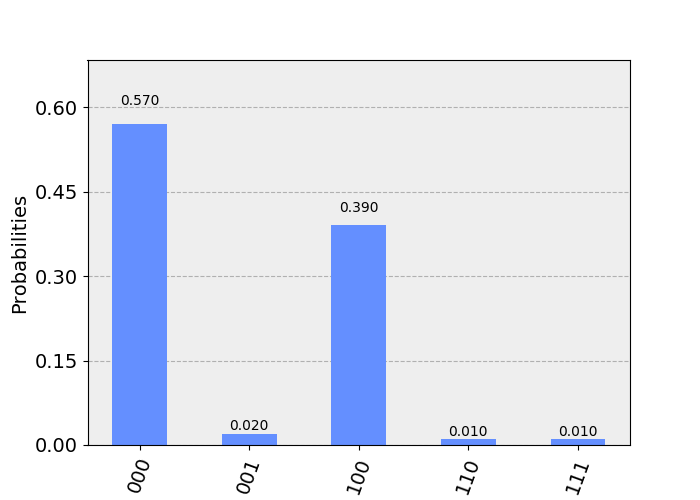
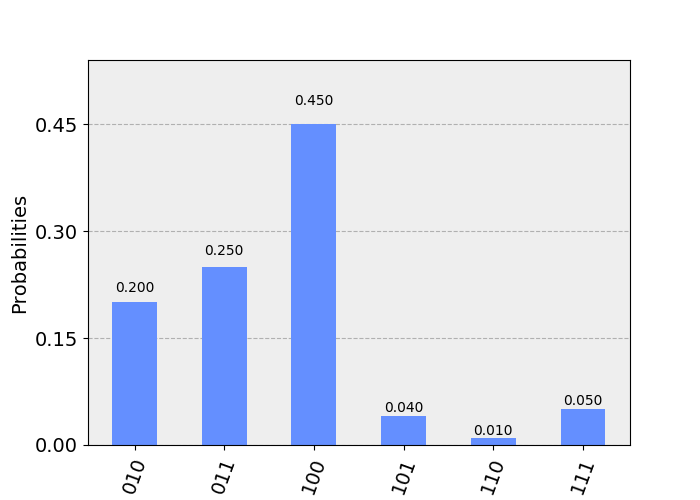
Implementation of handling multi-qubit gates

diff --git a/circuit_grid_model.py b/circuit_grid_model.py
@@ -19,11 +19,14 @@ class CircuitGridModel():
 
         return 'CircuitGridModel: ' + retval
 
-    def set_node(self, wire_num, column_num, node_type, radians=0):
-        if not self.nodes[wire_num][column_num]:
-            self.nodes[wire_num][column_num] = CircuitGridNode(node_type, radians)
-        else:
-            print('Node ', wire_num, column_num, ' not empty')
+    def set_node(self, wire_num, column_num, node_type, radians=0, ctrl_a=-1, ctrl_b=-1, swap=-1):
+        self.nodes[wire_num][column_num] = CircuitGridNode(node_type, radians, ctrl_a, ctrl_b, swap)
+
+        # TODO: Decide whether to protect as shown below
+        # if not self.nodes[wire_num][column_num]:
+        #     self.nodes[wire_num][column_num] = CircuitGridNode(node_type, radians)
+        # else:
+        #     print('Node ', wire_num, column_num, ' not empty')
 
     def get_node(self, wire_num, column_num):
         return self.nodes[wire_num][column_num]
@@ -33,60 +36,98 @@ class CircuitGridModel():
         qc = QuantumCircuit(qr)
 
         for column_num in range(self.max_columns):
-            # First, handle case in which multi-qubit gates are specified
-            if not self.compute_multi_qubit_gate(qc, qr, column_num):
-                for wire_num in range(self.max_wires):
-                    node = self.nodes[wire_num][column_num]
-                    if node:
-                        if node.node_type == node_types.IDEN:
-                            qc.iden(qr[wire_num])
-                        elif node.node_type == node_types.X:
-                            if node.radians == 0:
+            for wire_num in range(self.max_wires):
+                node = self.nodes[wire_num][column_num]
+                if node:
+                    if node.node_type == node_types.IDEN:
+                        # Identity gate
+                        qc.iden(qr[wire_num])
+                    elif node.node_type == node_types.X:
+                        if node.radians == 0:
+                            if node.ctrl_a != -1:
+                                if node.ctrl_b != -1:
+                                    # Toffoli gate
+                                    qc.ccx(qr[node.ctrl_a], qr[node.ctrl_b], qr[wire_num])
+                                else:
+                                    # Controlled X gate
+                                    qc.cx(qr[node.ctrl_a], qr[wire_num])
+                            else:
+                                # Pauli-X gate
                                 qc.x(qr[wire_num])
+                        else:
+                            # Rotation around X axis
+                            qc.rx(node.radians, qr[wire_num])
+                    elif node.node_type == node_types.Y:
+                        if node.radians == 0:
+                            if node.ctrl_a != -1:
+                                # Controlled Y gate
+                                qc.cy(qr[node.ctrl_a], qr[wire_num])
                             else:
-                                qc.rx(node.radians, qr[wire_num])
-                        elif node.node_type == node_types.Y:
-                            if node.radians == 0:
+                                # Pauli-Y gate
                                 qc.y(qr[wire_num])
+                        else:
+                            # Rotation around Y axis
+                            qc.ry(node.radians, qr[wire_num])
+                    elif node.node_type == node_types.Z:
+                        if node.radians == 0:
+                            if node.ctrl_a != -1:
+                                # Controlled Z gate
+                                qc.cz(qr[node.ctrl_a], qr[wire_num])
                             else:
-                                qc.ry(node.radians, qr[wire_num])
-                        elif node.node_type == node_types.Z:
-                            if node.radians == 0:
+                                # Pauli-Z gate
                                 qc.z(qr[wire_num])
+                        else:
+                            if node.ctrl_a != -1:
+                                # Controlled rotation around the Z axis
+                                qc.crz(node.radians, qr[node.ctrl_a], qr[wire_num])
                             else:
+                                # Rotation around Z axis
                                 qc.rz(node.radians, qr[wire_num])
-                        elif node.node_type == node_types.S:
-                            qc.s(qr[wire_num])
-                        elif node.node_type == node_types.SDG:
-                            qc.sdg(qr[wire_num])
-                        elif node.node_type == node_types.T:
-                            qc.t(qr[wire_num])
-                        elif node.node_type == node_types.TDG:
-                            qc.tdg(qr[wire_num])
-                        elif node.node_type == node_types.H:
+                    elif node.node_type == node_types.S:
+                        # S gate
+                        qc.s(qr[wire_num])
+                    elif node.node_type == node_types.SDG:
+                        # S dagger gate
+                        qc.sdg(qr[wire_num])
+                    elif node.node_type == node_types.T:
+                        # T gate
+                        qc.t(qr[wire_num])
+                    elif node.node_type == node_types.TDG:
+                        # T dagger gate
+                        qc.tdg(qr[wire_num])
+                    elif node.node_type == node_types.H:
+                        if node.ctrl_a != -1:
+                            # Controlled Hadamard
+                            qc.ch(qr[node.ctrl_a], qr[wire_num])
+                        else:
+                            # Hadamard gate
                             qc.h(qr[wire_num])
-                        elif node.node_type == node_types.B:
-                            qc.barrier(qr)
+                    elif node.node_type == node_types.SWAP:
+                        if node.ctrl_a != -1:
+                            # Controlled Swap
+                            qc.cswap(qr[node.ctrl_a], qr[wire_num], qr[node.swap])
+                        else:
+                            # Swap gate
+                            qc.swap(qr[wire_num], qr[node.swap])
+                    elif node.node_type == node_types.B:
+                        # Barrier
+                        qc.barrier(qr)
 
         return qc
 
-    def compute_multi_qubit_gate(self, qc, qr, column_num):
-        print('Column ', column_num, ': ', str(self.nodes[:, column_num]))
-        for wire_num in range(self.max_wires):
-            node = self.nodes[wire_num][column_num]
-            if node:
-                if node.node_type == node_types.C:
-                    qc.cx(qr[0], qr[1])
-                    return True
-        return False
 
 class CircuitGridNode():
     """Represents a node in the circuit grid"""
-    def __init__(self, node_type, radians):
+    def __init__(self, node_type, radians=0.0, ctrl_a=-1, ctrl_b=-1, swap=-1):
         self.node_type = node_type
         self.radians = radians
+        self.ctrl_a = ctrl_a
+        self.ctrl_b = ctrl_b
+        self.swap = swap
 
     def __str__(self):
         string = 'type: ' + str(self.node_type)
         string += ', radians: ' + str(self.radians) if self.radians != 0 else ''
+        string += ', ctrl_a: ' + str(self.ctrl_a) if self.ctrl_a != -1 else ''
+        string += ', ctrl_b: ' + str(self.ctrl_b) if self.ctrl_b != -1 else ''
         return string

diff --git a/main.py b/main.py
@@ -279,13 +279,15 @@ def main():
     # Prepare objects
     clock = pygame.time.Clock()
 
-    circuit_grid_model = CircuitGridModel(3, 6)
+    circuit_grid_model = CircuitGridModel(3, 13)
 
     circuit_grid_model.set_node(0, 0, node_types.X, np.pi/8)
     circuit_grid_model.set_node(1, 0, node_types.Y, np.pi/6)
     circuit_grid_model.set_node(2, 0, node_types.Z, np.pi/4)
 
-    circuit_grid_model.set_node(0, 1, node_types.B)
+    circuit_grid_model.set_node(0, 1, node_types.X)
+    circuit_grid_model.set_node(1, 1, node_types.Y)
+    circuit_grid_model.set_node(2, 1, node_types.Z)
 
     circuit_grid_model.set_node(0, 2, node_types.S)
     circuit_grid_model.set_node(1, 2, node_types.T)
@@ -295,11 +297,24 @@ def main():
     circuit_grid_model.set_node(1, 3, node_types.TDG)
     circuit_grid_model.set_node(2, 3, node_types.IDEN)
 
-    circuit_grid_model.set_node(0, 4, node_types.C)
-    circuit_grid_model.set_node(2, 4, node_types.X)
+    circuit_grid_model.set_node(0, 4, node_types.X, 0, 1)
 
-    circuit_grid_model.set_node(0, 5, node_types.Z, np.pi/8)
-    circuit_grid_model.set_node(1, 5, node_types.C)
+    # circuit_grid_model.set_node(0, 5, node_types.Z, np.pi/8)
+    circuit_grid_model.set_node(2, 5, node_types.Z, np.pi/4, 1)
+
+    circuit_grid_model.set_node(2, 6, node_types.X, 0, 0, 1)
+
+    circuit_grid_model.set_node(0, 7, node_types.B)
+
+    circuit_grid_model.set_node(1, 8, node_types.H, 0, 2)
+
+    circuit_grid_model.set_node(1, 9, node_types.Y, 0, 0)
+
+    circuit_grid_model.set_node(2, 10, node_types.Z, 0, 0)
+
+    circuit_grid_model.set_node(1, 11, node_types.SWAP, 0, -1, -1, 2)
+
+    circuit_grid_model.set_node(2, 12, node_types.SWAP, 0, 1, -1, 0)
 
     print("str(circuit_grid_model): ", str(circuit_grid_model))
     circuit = circuit_grid_model.compute_circuit()
@@ -311,9 +326,9 @@ def main():
     qsphere = QSphere(circuit)
     statevector_grid = StatevectorGrid(circuit)
 
-    left_sprites = VBox(0, 0, circuit_diagram, histogram)
+    left_sprites = VBox(0, 0, circuit_diagram, qsphere, histogram)
     # middle_sprites = VBox(600, 0, unitary_grid, histogram)
-    middle_sprites = VBox(600, 0, qsphere)
+    middle_sprites = VBox(600, 0)
     right_sprites = VBox(1300, 0, statevector_grid)
 
 

diff --git a/circuit_node_types.py b/circuit_node_types.py
@@ -7,5 +7,5 @@ SDG = 5
 T = 6
 TDG = 7
 H = 8
-C = 9
+SWAP = 9
 B = 10
